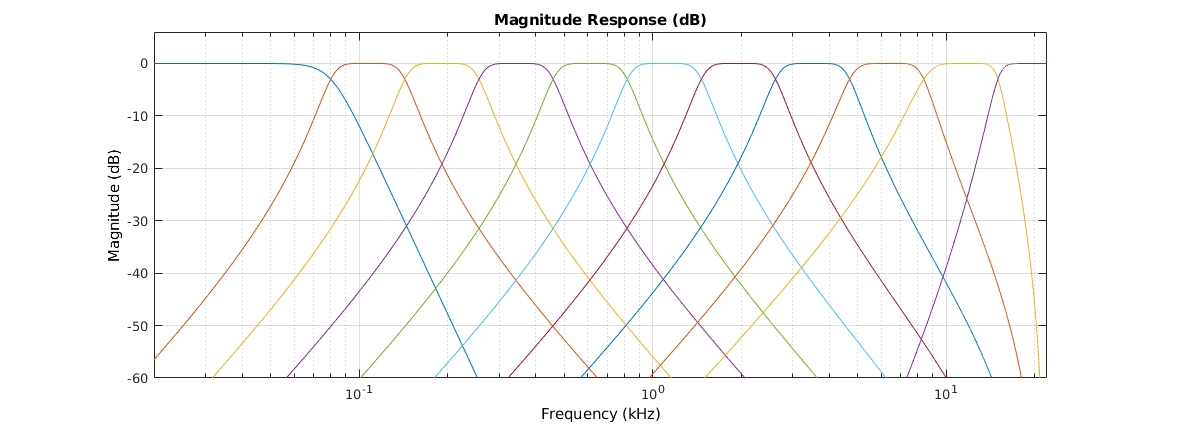
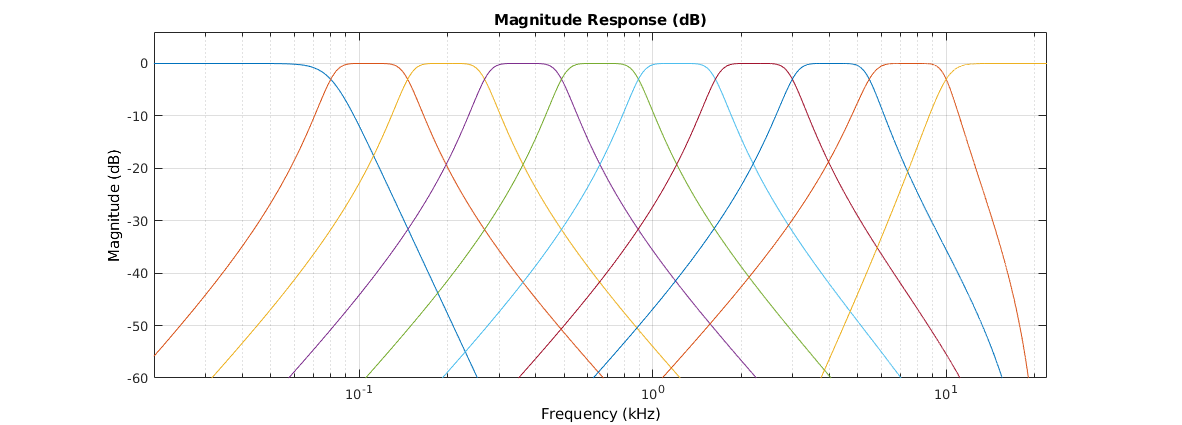
10 kHz upper

diff --git a/Examples/Coefficients.h b/Examples/Coefficients.h
@@ -11,62 +11,62 @@ const double sos_matrices[][numberOfBiQuads][6] = {
         {1.0000000000000000e+00, 2.0000000000000000e+00, 1.0000000000000000e+00, 1.0000000000000000e+00, -1.9780923754890538e+00, 9.7822087533729352e-01, },
     },
     {
-        {1.0000000000000000e+00, 0.0000000000000000e+00, -1.0000000000000000e+00, 1.0000000000000000e+00, -1.9940114630361661e+00, 9.9439754749725462e-01, },
-        {1.0000000000000000e+00, 0.0000000000000000e+00, -1.0000000000000000e+00, 1.0000000000000000e+00, -1.9964941874533344e+00, 9.9663343466796683e-01, },
-        {1.0000000000000000e+00, 0.0000000000000000e+00, -1.0000000000000000e+00, 1.0000000000000000e+00, -1.9908183156199259e+00, 9.9104966313584897e-01, },
+        {1.0000000000000000e+00, 0.0000000000000000e+00, -1.0000000000000000e+00, 1.0000000000000000e+00, -1.9936695874719077e+00, 9.9407210797416279e-01, },
+        {1.0000000000000000e+00, 0.0000000000000000e+00, -1.0000000000000000e+00, 1.0000000000000000e+00, -1.9963679736375999e+00, 9.9650751348000999e-01, },
+        {1.0000000000000000e+00, 0.0000000000000000e+00, -1.0000000000000000e+00, 1.0000000000000000e+00, -1.9903636737494017e+00, 9.9060011592297781e-01, },
     },
     {
-        {1.0000000000000000e+00, 0.0000000000000000e+00, -1.0000000000000000e+00, 1.0000000000000000e+00, -1.9887685347817325e+00, 9.9000109102875777e-01, },
-        {1.0000000000000000e+00, 0.0000000000000000e+00, -1.0000000000000000e+00, 1.0000000000000000e+00, -1.9935407889697681e+00, 9.9398573902838661e-01, },
-        {1.0000000000000000e+00, 0.0000000000000000e+00, -1.0000000000000000e+00, 1.0000000000000000e+00, -1.9833083209069657e+00, 9.8404594280304802e-01, },
+        {1.0000000000000000e+00, 0.0000000000000000e+00, -1.0000000000000000e+00, 1.0000000000000000e+00, -1.9878450678583102e+00, 9.8918758193896883e-01, },
+        {1.0000000000000000e+00, 0.0000000000000000e+00, -1.0000000000000000e+00, 1.0000000000000000e+00, -1.9931567854007619e+00, 9.9362267895239553e-01, },
+        {1.0000000000000000e+00, 0.0000000000000000e+00, -1.0000000000000000e+00, 1.0000000000000000e+00, -1.9820904472358614e+00, 9.8287794951542373e-01, },
     },
     {
-        {1.0000000000000000e+00, 0.0000000000000000e+00, -1.0000000000000000e+00, 1.0000000000000000e+00, -1.9782599121057587e+00, 9.8218743021527877e-01, },
-        {1.0000000000000000e+00, 0.0000000000000000e+00, -1.0000000000000000e+00, 1.0000000000000000e+00, -1.9878458182249552e+00, 9.8926605358228148e-01, },
-        {1.0000000000000000e+00, 0.0000000000000000e+00, -1.0000000000000000e+00, 1.0000000000000000e+00, -1.9692936863259305e+00, 9.7163889903349454e-01, },
+        {1.0000000000000000e+00, 0.0000000000000000e+00, -1.0000000000000000e+00, 1.0000000000000000e+00, -1.9758528516605591e+00, 9.8032072294632755e-01, },
+        {1.0000000000000000e+00, 0.0000000000000000e+00, -1.0000000000000000e+00, 1.0000000000000000e+00, -1.9868141402240609e+00, 9.8836771109515353e-01, },
+        {1.0000000000000000e+00, 0.0000000000000000e+00, -1.0000000000000000e+00, 1.0000000000000000e+00, -1.9662953492477158e+00, 9.6890971930598679e-01, },
     },
     {
-        {1.0000000000000000e+00, 0.0000000000000000e+00, -1.0000000000000000e+00, 1.0000000000000000e+00, -1.9559054017415225e+00, 9.6837638463941933e-01, },
-        {1.0000000000000000e+00, 0.0000000000000000e+00, -1.0000000000000000e+00, 1.0000000000000000e+00, -1.9763491860544602e+00, 9.8087325703461326e-01, },
-        {1.0000000000000000e+00, 0.0000000000000000e+00, -1.0000000000000000e+00, 1.0000000000000000e+00, -1.9424032528131376e+00, 9.4982212181158399e-01, },
+        {1.0000000000000000e+00, 0.0000000000000000e+00, -1.0000000000000000e+00, 1.0000000000000000e+00, -1.9495228955399466e+00, 9.6432945479034005e-01, },
+        {1.0000000000000000e+00, 0.0000000000000000e+00, -1.0000000000000000e+00, 1.0000000000000000e+00, -1.9736535950830127e+00, 9.7882186617947553e-01, },
+        {1.0000000000000000e+00, 0.0000000000000000e+00, -1.0000000000000000e+00, 1.0000000000000000e+00, -1.9352336191843258e+00, 9.4386128495110300e-01, },
     },
     {
-        {1.0000000000000000e+00, 0.0000000000000000e+00, -1.0000000000000000e+00, 1.0000000000000000e+00, -1.9048940201544720e+00, 9.4422313647837708e-01, },
-        {1.0000000000000000e+00, 0.0000000000000000e+00, -1.0000000000000000e+00, 1.0000000000000000e+00, -1.9516469292985481e+00, 9.6600276957023157e-01, },
-        {1.0000000000000000e+00, 0.0000000000000000e+00, -1.0000000000000000e+00, 1.0000000000000000e+00, -1.8886880333227218e+00, 9.1194397121498760e-01, },
+        {1.0000000000000000e+00, 0.0000000000000000e+00, -1.0000000000000000e+00, 1.0000000000000000e+00, -1.8872047325833834e+00, 9.3586355973648039e-01, },
+        {1.0000000000000000e+00, 0.0000000000000000e+00, -1.0000000000000000e+00, 1.0000000000000000e+00, -1.9444390723268987e+00, 9.6155316336882557e-01, },
+        {1.0000000000000000e+00, 0.0000000000000000e+00, -1.0000000000000000e+00, 1.0000000000000000e+00, -1.8714558377329309e+00, 8.9961702399663346e-01, },
     },
     {
-        {1.0000000000000000e+00, 0.0000000000000000e+00, -1.0000000000000000e+00, 1.0000000000000000e+00, -1.7805726029298654e+00, 9.0289172307843113e-01, },
-        {1.0000000000000000e+00, 0.0000000000000000e+00, -1.0000000000000000e+00, 1.0000000000000000e+00, -1.8945587235953218e+00, 9.3976701476790347e-01, },
-        {1.0000000000000000e+00, 0.0000000000000000e+00, -1.0000000000000000e+00, 1.0000000000000000e+00, -1.7758580300646922e+00, 8.4755508815148972e-01, },
+        {1.0000000000000000e+00, 0.0000000000000000e+00, -1.0000000000000000e+00, 1.0000000000000000e+00, -1.7294538879199310e+00, 8.8657436563809155e-01, },
+        {1.0000000000000000e+00, 0.0000000000000000e+00, -1.0000000000000000e+00, 1.0000000000000000e+00, -1.8743152961233043e+00, 9.3045379227907343e-01, },
+        {1.0000000000000000e+00, 0.0000000000000000e+00, -1.0000000000000000e+00, 1.0000000000000000e+00, -1.7333611932092290e+00, 8.2341950710175238e-01, },
     },
     {
-        {1.0000000000000000e+00, 0.0000000000000000e+00, -1.0000000000000000e+00, 1.0000000000000000e+00, -1.4662546668830323e+00, 8.3548440394497114e-01, },
-        {1.0000000000000000e+00, 0.0000000000000000e+00, -1.0000000000000000e+00, 1.0000000000000000e+00, -1.7534297220284794e+00, 8.9350449210844940e-01, },
-        {1.0000000000000000e+00, 0.0000000000000000e+00, -1.0000000000000000e+00, 1.0000000000000000e+00, -1.5274046039884326e+00, 7.4165191757253601e-01, },
+        {1.0000000000000000e+00, 0.0000000000000000e+00, -1.0000000000000000e+00, 1.0000000000000000e+00, -1.3186720125060836e+00, 8.0655377389155614e-01, },
+        {1.0000000000000000e+00, 0.0000000000000000e+00, -1.0000000000000000e+00, 1.0000000000000000e+00, -1.6940117685508596e+00, 8.7433345335326651e-01, },
+        {1.0000000000000000e+00, 0.0000000000000000e+00, -1.0000000000000000e+00, 1.0000000000000000e+00, -1.4203355476599082e+00, 6.9723593168204434e-01, },
     },
     {
-        {1.0000000000000000e+00, 0.0000000000000000e+00, -1.0000000000000000e+00, 1.0000000000000000e+00, -1.3925703148680180e+00, 8.1007889956907253e-01, },
-        {1.0000000000000000e+00, 0.0000000000000000e+00, -1.0000000000000000e+00, 1.0000000000000000e+00, -6.9748577353436225e-01, 7.3845923209837994e-01, },
-        {1.0000000000000000e+00, 0.0000000000000000e+00, -1.0000000000000000e+00, 1.0000000000000000e+00, -9.7360589881002291e-01, 5.7519510675465579e-01, },
+        {1.0000000000000000e+00, 0.0000000000000000e+00, -1.0000000000000000e+00, 1.0000000000000000e+00, -1.2200690484889418e+00, 7.6895824702303139e-01, },
+        {1.0000000000000000e+00, 0.0000000000000000e+00, -1.0000000000000000e+00, 1.0000000000000000e+00, -3.1795264811022200e-01, 6.9895969372373246e-01, },
+        {1.0000000000000000e+00, 0.0000000000000000e+00, -1.0000000000000000e+00, 1.0000000000000000e+00, -7.1406132365011665e-01, 4.9869075525310430e-01, },
     },
     {
-        {1.0000000000000000e+00, 0.0000000000000000e+00, -1.0000000000000000e+00, 1.0000000000000000e+00, 8.3141908132290632e-01, 6.6403443075034296e-01, },
-        {1.0000000000000000e+00, 0.0000000000000000e+00, -1.0000000000000000e+00, 1.0000000000000000e+00, -5.2891759356019741e-01, 6.3853967090356933e-01, },
-        {1.0000000000000000e+00, 0.0000000000000000e+00, -1.0000000000000000e+00, 1.0000000000000000e+00, 1.4127200558170544e-01, 3.2496911130035167e-01, },
+        {1.0000000000000000e+00, -2.0000000000000000e+00, 1.0000000000000000e+00, 1.0000000000000000e+00, -2.3170668390230434e-01, 5.9227551924319066e-01, },
+        {1.0000000000000000e+00, -2.0000000000000000e+00, 1.0000000000000000e+00, 1.0000000000000000e+00, -1.7124139038429120e-01, 1.7676136569732132e-01, },
+        {1.0000000000000000e+00, -2.0000000000000000e+00, 1.0000000000000000e+00, 1.0000000000000000e+00, -1.4881974263449715e-01, 2.2681042195974895e-02, },
     },
 };
 
 const double gain[][numberOfBiQuads] = {
     {3.2383110922936002e-05, 3.2218972169554699e-05, 3.2124962059890343e-05, },
-    {4.4851706192310693e-03, 4.4851706192310693e-03, 4.4751684320754924e-03, },
-    {8.0087798600194972e-03, 8.0087798600194972e-03, 7.9770285984760245e-03, },
-    {1.4280720191015341e-02, 1.4280720191015341e-02, 1.4180550483252756e-02, },
-    {2.5401516289941042e-02, 2.5401516289941042e-02, 2.5088939094207941e-02, },
-    {4.4984888032770128e-02, 4.4984888032770128e-02, 4.4028014392506219e-02, },
-    {7.9056543452456038e-02, 7.9056543452456038e-02, 7.6222455924255153e-02, },
-    {1.3711600660544374e-01, 1.3711600660544374e-01, 1.2917404121373197e-01, },
-    {2.3276196313288816e-01, 2.3276196313288816e-01, 2.1240244662267213e-01, },
-    {3.8304565720860334e-01, 3.8304565720860334e-01, 3.3751544434982411e-01, },
+    {4.7109735745614525e-03, 4.7109735745614525e-03, 4.6999420385110758e-03, },
+    {8.5975900246326384e-03, 8.5975900246326384e-03, 8.5610252422881217e-03, },
+    {1.5665470669071233e-02, 1.5665470669071233e-02, 1.5545140347006535e-02, },
+    {2.8460260924019404e-02, 2.8460260924019404e-02, 2.8069357524448564e-02, },
+    {5.1432408652437089e-02, 5.1432408652437089e-02, 5.0191488001683271e-02, },
+    {9.2073722137809122e-02, 9.2073722137809122e-02, 8.8290246449123880e-02, },
+    {1.6215563617031548e-01, 1.6215563617031548e-01, 1.5138203415897780e-01, },
+    {2.7813229074949419e-01, 2.7813229074949419e-01, 2.5065462237344782e-01, },
+    {4.5599555078637372e-01, 3.3700068902040314e-01, 2.9287519620761804e-01, },
 };
 

diff --git a/Examples/Coefficients.m b/Examples/Coefficients.m
@@ -7,18 +7,18 @@ number_of_bands = 10;
 
 
 min_freq = 80;
-max_freq = 15000;
-b = log(max_freq/min_freq)/(number_of_bands-1);
-frequencies = min_freq * exp((0:number_of_bands-1).*b);
+max_freq = 10000;
+b = log(max_freq/min_freq)/(number_of_bands-2);
+frequencies = min_freq * exp((0:number_of_bands-2).*b);
 
 filters = [];
 d = fdesign.lowpass('N,F3dB',order,frequencies(1),samplefreq);
 filters = [filters design(d, filter_type)];
-for i = 1:number_of_bands-1
+for i = 1:number_of_bands-2
     d = fdesign.bandpass('N,F3dB1,F3dB2',order,frequencies(i),frequencies(i+1),samplefreq);
     filters = [filters design(d,filter_type)];
 end
-d = fdesign.highpass('N,F3dB',order,frequencies(number_of_bands),samplefreq);
+d = fdesign.highpass('N,F3dB',order,frequencies(number_of_bands-1),samplefreq);
 filters = [filters design(d, filter_type)];
 
 fvtool(filters);
